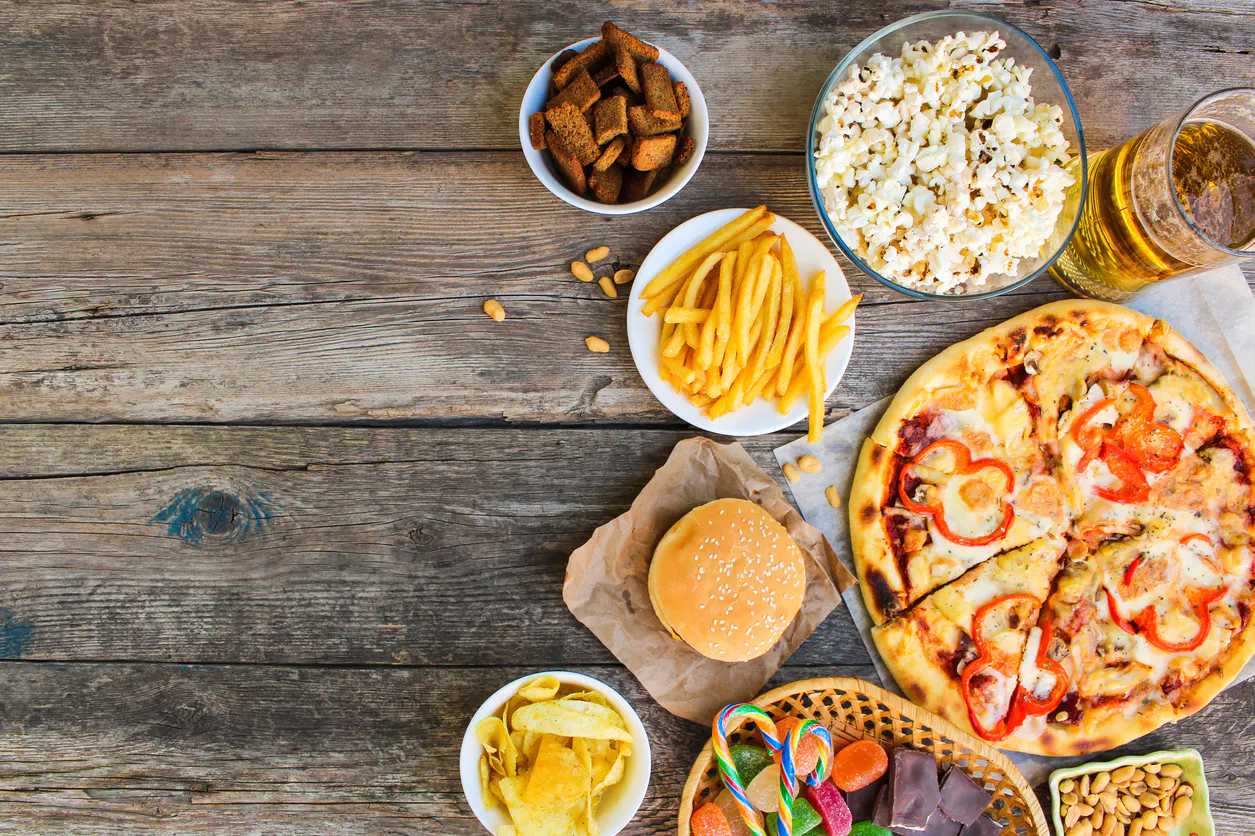
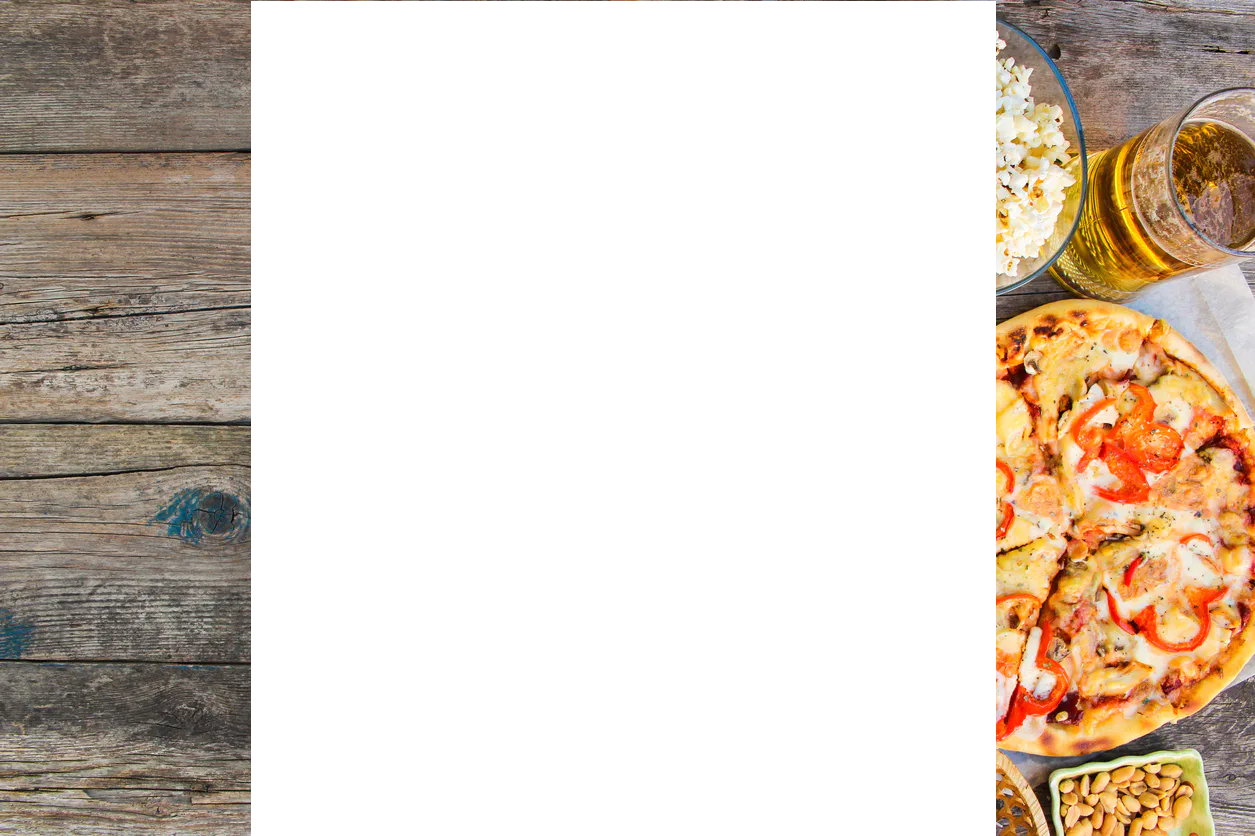
ajout de recettes, d'un background et quelques modifs

diff --git a/src/application/application2.css b/src/application/application2.css
@@ -1,4 +1,4 @@
 .root{
-
-
+	-fx-background-image:url('backgroundrecette.png');
+	-fx-background-size:cover;
 	}
